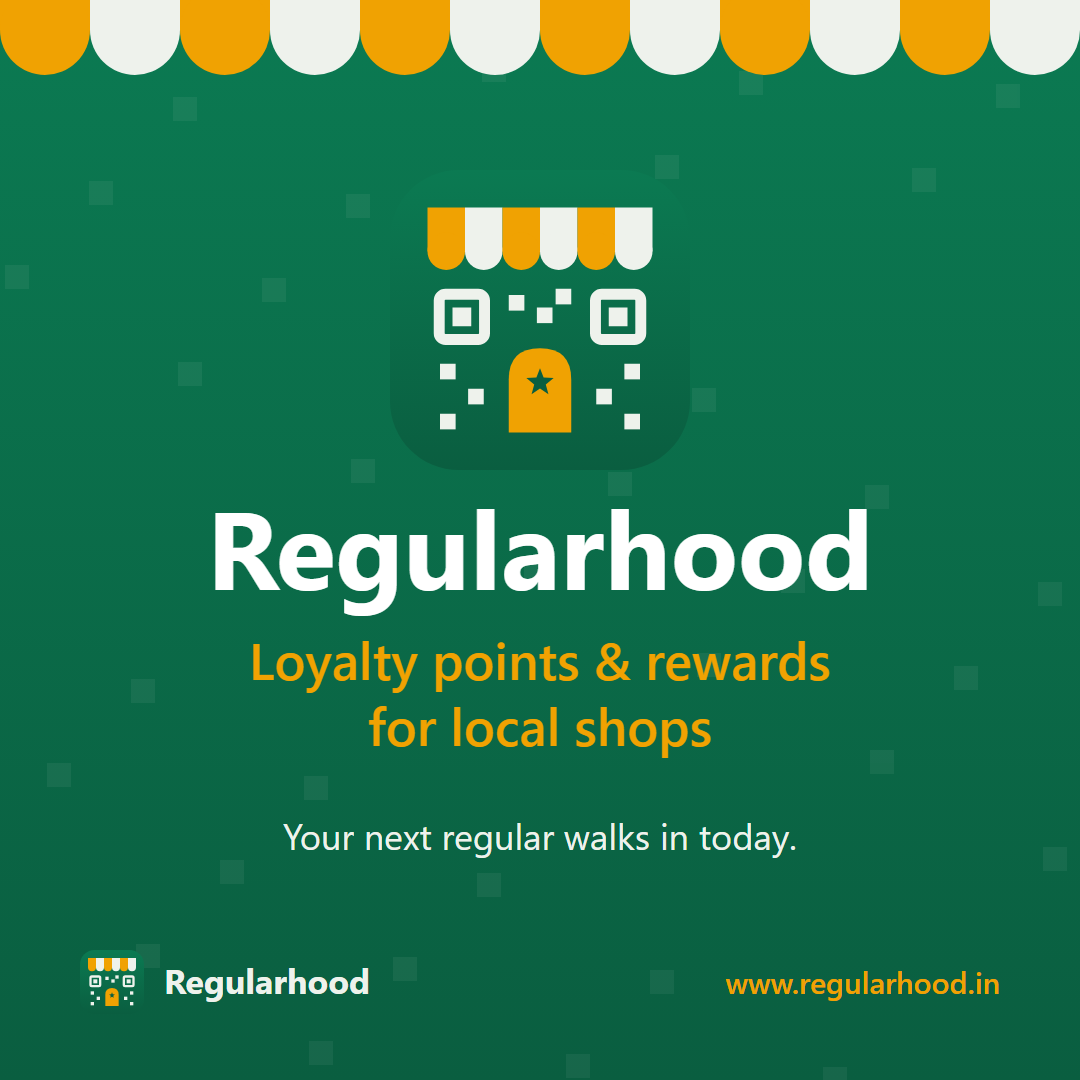
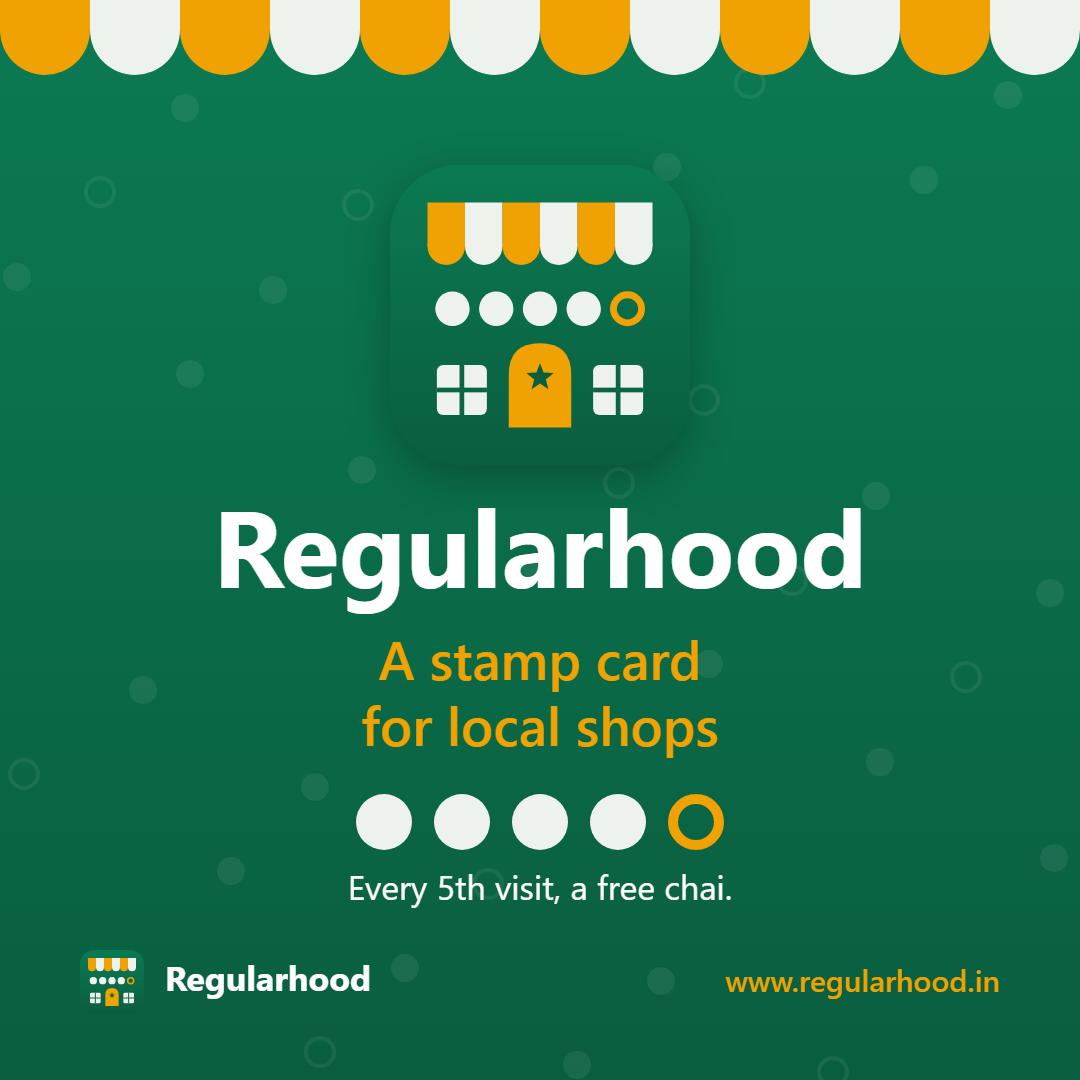
Instagram launch posts for the stamp card, downloadable from admin
Redid the 9 launch posts and captions: new logo, stamp circles in the background, and copy about
typing the customer's number and tapping Add visit instead of points and QR codes. Admin → WhatsApp
status has a new "Instagram launch posts" section with each image to download and its caption to copy.

diff --git a/web/src/pages/AdminStatus.tsx b/web/src/pages/AdminStatus.tsx
@@ -29,6 +29,71 @@ const LOGOS = [
   { file: 'regularhood-logo.svg', label: 'Logo (vector)', size: 'SVG, any size' },
 ];
 
+// The 9 launch posts in web/public/brand/instagram (made from brand/instagram; captions from brand/instagram/captions.md).
+const INSTA_TAGS = '#Regularhood #StampCard #LoyaltyProgram #SmallBusinessIndia #LocalShops #KiranaStore #CafeOwner #SalonBusiness #CustomerLoyalty #DukaanDigital #VocalForLocal';
+const INSTA_POSTS = [
+  {
+    file: 'post-1',
+    title: 'Intro',
+    caption: `Meet Regularhood 🏪
+A stamp card for local shops: chai stalls, cafés, salons, bakeries, kirana stores and more.
+Every 5th visit, a free chai (or whatever reward you choose). Turn first-time customers into regulars, all from the phone you already have.
+Free to start → link in bio.`,
+  },
+  {
+    file: 'post-2',
+    title: 'The problem',
+    caption: `A new customer pays, smiles and walks out. Will they come back? Right now, that's left to luck. 🎲
+Regularhood counts every visit for you and gives them a reason to return.`,
+  },
+  {
+    file: 'post-3',
+    title: 'Old way vs new way',
+    caption: `Paper stamp cards get lost, forgotten at home, or thrown away.
+With Regularhood the card is just your customer's phone number, so it can't be lost, and you can see who hasn't been back in a while.`,
+  },
+  {
+    file: 'post-4',
+    title: 'How it works',
+    caption: `Three steps, one button:
+1⃣ Set your one rule, e.g. every 5 visits → free chai
+2⃣ Type the customer's number and tap Add visit
+3⃣ On the 5th visit the screen turns orange: give the reward, and the card starts again
+Setup takes about a minute.`,
+  },
+  {
+    file: 'post-5',
+    title: 'No app, nothing to scan',
+    caption: `No app to download. Nothing to scan. No password to remember.
+Your customer just says their phone number at the counter. Their card opens from a WhatsApp link and can sit on their home screen like any app. 📱`,
+  },
+  {
+    file: 'post-6',
+    title: 'WhatsApp',
+    caption: `After a visit, send the customer their card on WhatsApp with one tap: how many visits they have and how many more until their reward. 💬
+A small reminder that brings them back.`,
+  },
+  {
+    file: 'post-7',
+    title: 'No smartphone',
+    caption: `Not every customer has a smartphone, and that's fine.
+A customer is just a phone number: no names, no sign-up, nothing to scan. Type the number, tap Add visit, and they're one stamp closer to their reward.`,
+  },
+  {
+    file: 'post-8',
+    title: 'Hindi',
+    caption: `आपके ग्राहक, उनकी भाषा में। 🇮🇳
+The customer's card, the WhatsApp message and your shop app all work in English or Hindi.`,
+  },
+  {
+    file: 'post-9',
+    title: 'Call to action',
+    caption: `Free to start. Set up in a minute. ✅
+Your customers stay yours: we never sell or share their details, and you can download your customer list and visit history any time.
+Start today → link in bio (www.regularhood.in)`,
+  },
+];
+
 const copy = (text: string, what: string) =>
   navigator.clipboard.writeText(text).then(
     () => toast(`${what} copied`),
@@ -77,6 +142,8 @@ export function StatusPage({ api }: { api: AdminApi }) {
         <GenerateCard api={api} disabled={!data.keySet} onDone={load} />
         <LogosCard />
       </div>
+
+      <InstagramPostsCard />
 
       {latest ? <BatchCard batch={latest} onDelete={() => void remove(latest)} open /> : <EmptyState icon={Image} title="No ideas yet" text="Pick a theme and press Write ideas." />}
 
@@ -207,6 +274,45 @@ function LogosCard() {
         </a>
       </div>
     </section>
+  );
+}
+
+function InstagramPostsCard() {
+  return (
+    <details className="card status-batch">
+      <summary className="card-head">
+        <h2>
+          <Image size={18} /> Instagram launch posts
+        </h2>
+        <span className="muted small">9 posts · 1080 × 1080 PNG</span>
+      </summary>
+      <p className="muted small" style={{ margin: 0 }}>
+        Post in reverse order (post 9 first, post 1 last): Instagram puts the newest post top-left, so the grid ends with post 1 top-left. Copy caption
+        includes the hashtags.
+      </p>
+      <div className="insta-posts">
+        {INSTA_POSTS.map((p, i) => (
+          <article key={p.file} className="insta-post">
+            <a href={`/brand/instagram/${p.file}.png`} target="_blank" rel="noreferrer">
+              <img src={`/brand/instagram/${p.file}.png`} alt={p.title} loading="lazy" width={1080} height={1080} />
+            </a>
+            <strong>
+              {i + 1}. {p.title}
+            </strong>
+            <div className="actions">
+              <a className="btn btn-soft btn-sm" href={`/brand/instagram/${p.file}.png`} download={`regularhood-${p.file}.png`}>
+                <Download size={15} /> Image
+              </a>
+              <button className="btn btn-soft btn-sm" onClick={() => void copy(`${p.caption}
+
+${INSTA_TAGS}`, 'Caption')}>
+                <Copy size={15} /> Caption
+              </button>
+            </div>
+          </article>
+        ))}
+      </div>
+    </details>
   );
 }
 

diff --git a/web/src/styles.css b/web/src/styles.css
@@ -3274,6 +3274,31 @@ circle.trend-views {
   gap: 0;
 }
 
+.insta-posts {
+  display: grid;
+  grid-template-columns: repeat(auto-fill, minmax(200px, 1fr));
+  gap: 14px;
+}
+
+.insta-post {
+  display: grid;
+  gap: 8px;
+  align-content: start;
+  font-size: 14px;
+}
+
+.insta-post img {
+  display: block;
+  width: 100%;
+  height: auto;
+  border-radius: var(--radius-sm);
+  border: 1px solid var(--line);
+}
+
+.insta-post .actions {
+  margin: 0;
+}
+
 .status-ideas {
   display: grid;
   gap: 14px;

diff --git a/brand/instagram/captions.md b/brand/instagram/captions.md
@@ -3,49 +3,48 @@
 Post in reverse order (post-9 first, post-1 last). Instagram shows the newest post top-left, so the grid ends up with post-1 top-left.
 
 Common hashtags (paste at the end of each caption):
-#Regularhood #LoyaltyProgram #SmallBusinessIndia #LocalShops #KiranaStore #CafeOwner #SalonBusiness #CustomerLoyalty #DukaanDigital #VocalForLocal
+#Regularhood #StampCard #LoyaltyProgram #SmallBusinessIndia #LocalShops #KiranaStore #CafeOwner #SalonBusiness #CustomerLoyalty #DukaanDigital #VocalForLocal
 
 ---
 
 ## post-1.png — Intro
 Meet Regularhood 🏪
-Loyalty points & rewards for local shops: chai stalls, cafés, salons, bakeries, kirana stores and more.
-Turn first-time customers into regulars, all from the phone you already have.
+A stamp card for local shops: chai stalls, cafés, salons, bakeries, kirana stores and more.
+Every 5th visit, a free chai (or whatever reward you choose). Turn first-time customers into regulars, all from the phone you already have.
 Free to start → link in bio.
 
 ## post-2.png — The problem
 A new customer pays, smiles and walks out. Will they come back? Right now, that's left to luck. 🎲
-Regularhood remembers every customer for you and gives them a reason to return.
+Regularhood counts every visit for you and gives them a reason to return.
 
 ## post-3.png — Old way vs new way
 Paper stamp cards get lost, forgotten at home, or thrown away.
-With Regularhood the card lives on your customer's phone, points go on every bill, and you can see who hasn't been back in a while.
+With Regularhood the card is just your customer's phone number, so it can't be lost, and you can see who hasn't been back in a while.
 
 ## post-4.png — How it works
-Three steps, just your phone:
-1⃣ Sign up free and print your counter QR
-2⃣ Customer scans and gets points on the bill
-3⃣ Rewards bring them back for "the usual"
-Setup takes about two minutes.
+Three steps, one button:
+1⃣ Set your one rule, e.g. every 5 visits → free chai
+2⃣ Type the customer's number and tap Add visit
+3⃣ On the 5th visit the screen turns orange: give the reward, and the card starts again
+Setup takes about a minute.
 
-## post-5.png — No app for customers
-No app to download. No password to remember.
-Your customer's loyalty card opens from a link and can sit on their home screen like any app. 📱
+## post-5.png — No app, nothing to scan
+No app to download. Nothing to scan. No password to remember.
+Your customer just says their phone number at the counter. Their card opens from a WhatsApp link and can sit on their home screen like any app. 📱
 
 ## post-6.png — WhatsApp
-Every bill can go straight to your customer's WhatsApp, with a link to their card and rewards. 💬
+After a visit, send the customer their card on WhatsApp with one tap: how many visits they have and how many more until their reward. 💬
 A small reminder that brings them back.
 
 ## post-7.png — No smartphone
 Not every customer has a smartphone, and that's fine.
-Type their number and the bill amount, and they still collect points.
-4 ways to give points: they scan your QR, you scan their card, type their number, or check a reward code.
+A customer is just a phone number: no names, no sign-up, nothing to scan. Type the number, tap Add visit, and they're one stamp closer to their reward.
 
 ## post-8.png — Hindi
 आपके ग्राहक, उनकी भाषा में। 🇮🇳
-Customers can switch their loyalty card between English and Hindi with one tap.
+The customer's card, the WhatsApp message and your shop app all work in English or Hindi.
 
 ## post-9.png — Call to action
-Free to start. Set up in 2 minutes. ✅
-Your customers stay yours: we never sell or share their details, and you can download your customer list and points history any time.
+Free to start. Set up in a minute. ✅
+Your customers stay yours: we never sell or share their details, and you can download your customer list and visit history any time.
 Start today → link in bio (www.regularhood.in)
